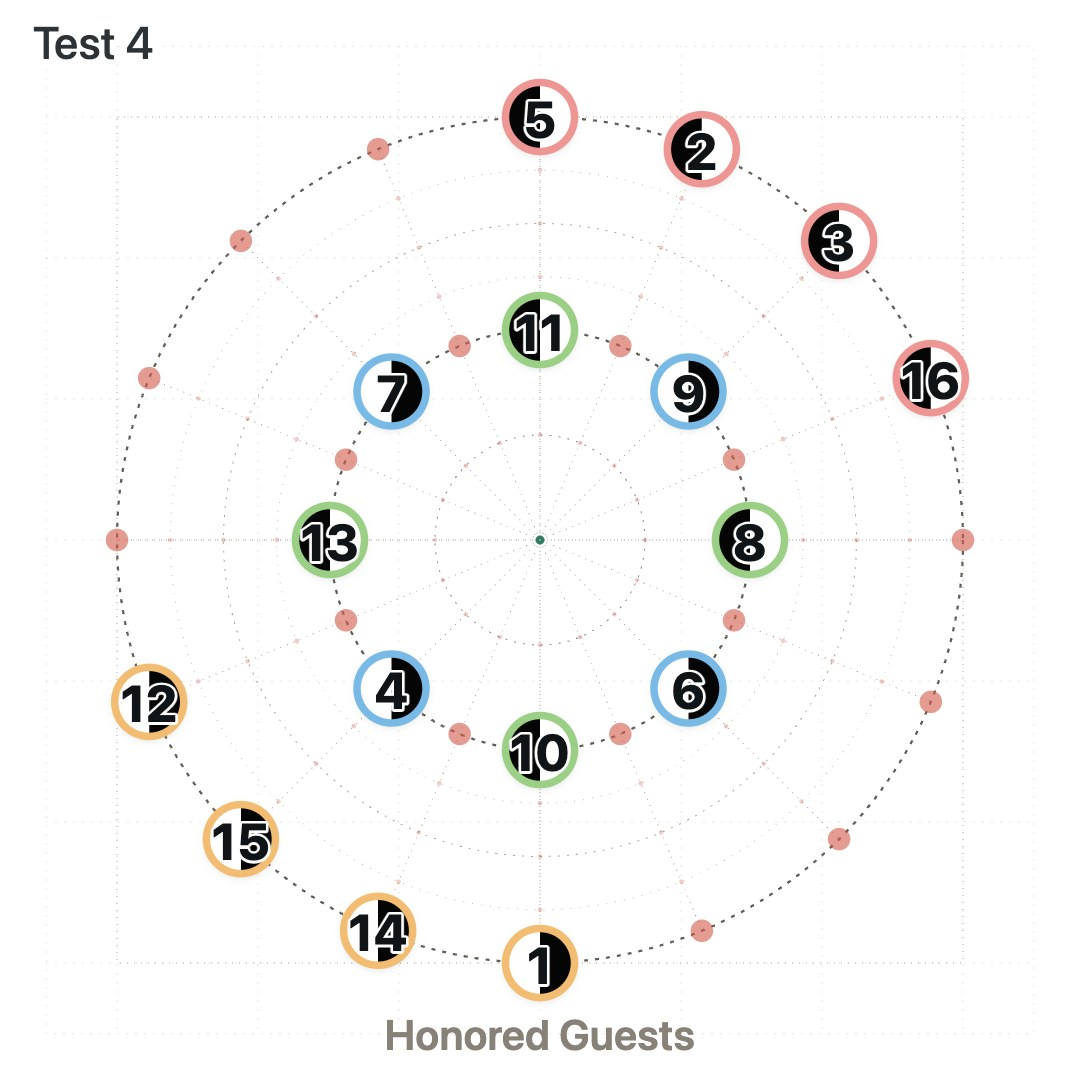
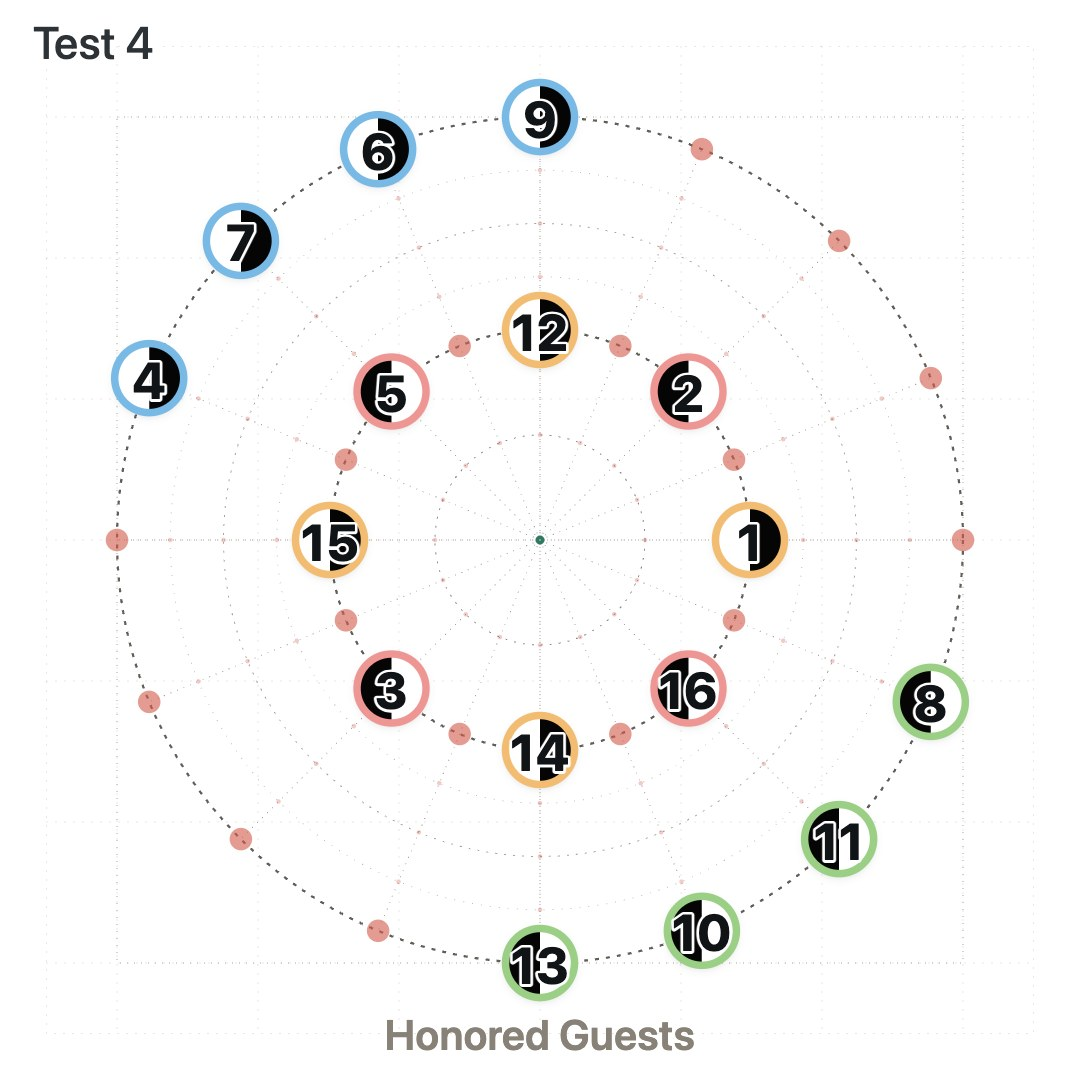
Waltz 14 Swirling Cascade: Test 4 swaps circles (amber/rose in, green/blue out)

diff --git a/index.html b/index.html
@@ -5065,32 +5065,41 @@
               return named(line, swirl, "Test 2");
             })(),
             test3(),
-            // "Test 4" (Ariel, 11/23): amber and rose travel 1 tape along the line of dance
-            // (counterclockwise) on the outside circle; green and blue spread onto the inside
-            // circle, one couple every other tape (cardinals and diagonals), green and blue
-            // alternating, each couple taking the nearest such spot it can.
+            // "Test 4" (Ariel, 11/23): the circles swap. Amber and rose come in to the inside circle,
+            // one couple every other tape (cardinals and diagonals), amber and rose alternating. Green
+            // and blue go out to the outside circle onto the 4 tapes of each empty quarter: green the
+            // bottom right, from 1 tape below the east cardinal to the south cardinal; blue the top
+            // left, from 1 tape above the west cardinal to the north cardinal. Each couple takes the
+            // nearest spot it can in its set.
             ...(() => {
               const shot = test3("Test 4");
-              const rows = shot.items.filter((item) => item.groupColor === "green" || item.groupColor === "blue");
-              const spots = Array.from({ length: 8 }, (_, k) => (k * Math.PI) / 4);
-              const at = (angle) => ({ x: CENTER.x + INNER_RADIUS * Math.cos(angle), y: CENTER.y + INNER_RADIUS * Math.sin(angle) });
+              const tape = Math.PI / 8;
+              const at = (angle, radius) => ({ x: CENTER.x + radius * Math.cos(angle), y: CENTER.y + radius * Math.sin(angle) });
               const perms = (list) => (list.length < 2 ? [list] : list.flatMap((x, i) => perms([...list.slice(0, i), ...list.slice(i + 1)]).map((rest) => [x, ...rest])));
-              const cost = (items, angles) => items.reduce((sum, item, i) => {
-                const p = at(angles[i]);
+              const cost = (items, angles, radius) => items.reduce((sum, item, i) => {
+                const p = at(angles[i], radius);
                 return sum + (item.x - p.x) ** 2 + (item.y - p.y) ** 2;
               }, 0);
-              const best = (items, angles) => perms(angles).reduce((a, b) => (cost(items, b) < cost(items, a) ? b : a));
-              let choice = null;
-              [0, 1].forEach((parity) => {
-                const green = rows.filter((item) => item.groupColor === "green");
-                const blue = rows.filter((item) => item.groupColor === "blue");
-                const gAngles = best(green, spots.filter((_, k) => k % 2 === parity));
-                const bAngles = best(blue, spots.filter((_, k) => k % 2 !== parity));
-                const total = cost(green, gAngles) + cost(blue, bAngles);
-                if (!choice || total < choice.total) choice = { total, pairs: [...green.map((item, i) => [item, gAngles[i]]), ...blue.map((item, i) => [item, bAngles[i]])] };
-              });
-              choice.pairs.forEach(([item, angle]) => { const p = at(angle); item.x = fix(p.x); item.y = fix(p.y); });
-              shot.items.forEach((item) => { if (!rows.includes(item)) Object.assign(item, turnLod(item, 1)); });
+              const best = (items, angles, radius) => perms(angles).reduce((a, b) => (cost(items, b, radius) < cost(items, a, radius) ? b : a));
+              const group = (color) => shot.items.filter((item) => item.groupColor === color);
+              const place = (items, angles, radius) => items.forEach((item, i) => { const p = at(angles[i], radius); item.x = fix(p.x); item.y = fix(p.y); });
+              // Outside circle, tape k at k × 22.5° clockwise from east (4 = south, 12 = north).
+              const quarter = (from) => [0, 1, 2, 3].map((k) => (from + k) * tape);
+              const green = group("green"), blue = group("blue");
+              const greenAngles = best(green, quarter(1), OUTER_RADIUS);
+              const blueAngles = best(blue, quarter(9), OUTER_RADIUS);
+              // Inside circle: amber on every other spot, rose between, whichever way round is nearer.
+              const amber = group("amber"), rose = group("rose");
+              const spots = Array.from({ length: 8 }, (_, k) => (k * Math.PI) / 4);
+              const choice = [0, 1].map((parity) => {
+                const a = best(amber, spots.filter((_, k) => k % 2 === parity), INNER_RADIUS);
+                const r = best(rose, spots.filter((_, k) => k % 2 !== parity), INNER_RADIUS);
+                return { a, r, total: cost(amber, a, INNER_RADIUS) + cost(rose, r, INNER_RADIUS) };
+              }).reduce((x, y) => (y.total < x.total ? y : x));
+              place(green, greenAngles, OUTER_RADIUS);
+              place(blue, blueAngles, OUTER_RADIUS);
+              place(amber, choice.a, INNER_RADIUS);
+              place(rose, choice.r, INNER_RADIUS);
               // "Test 5" (Ariel, 11/23), the next measure: everyone travels 1 more tape along the line
               // of dance, each on their own circle.
               const next = named({ ...structuredClone(shot), items: shot.items.map((item) => ({ ...item, ...turnLod(item, 1) })) }, swirl, "Test 5");
